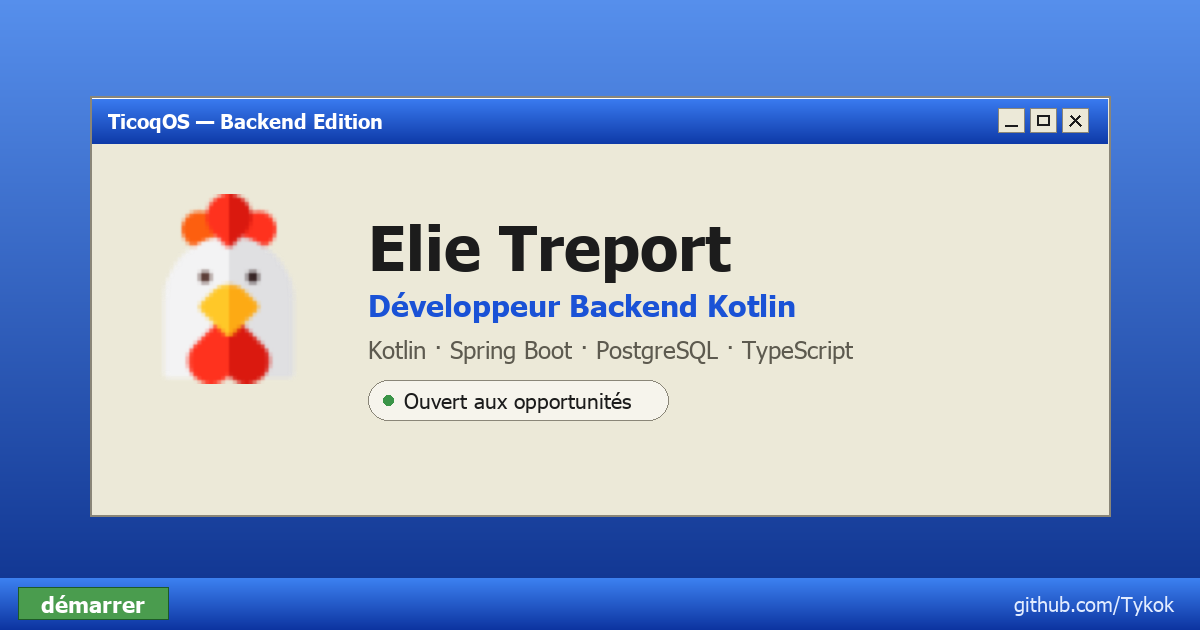
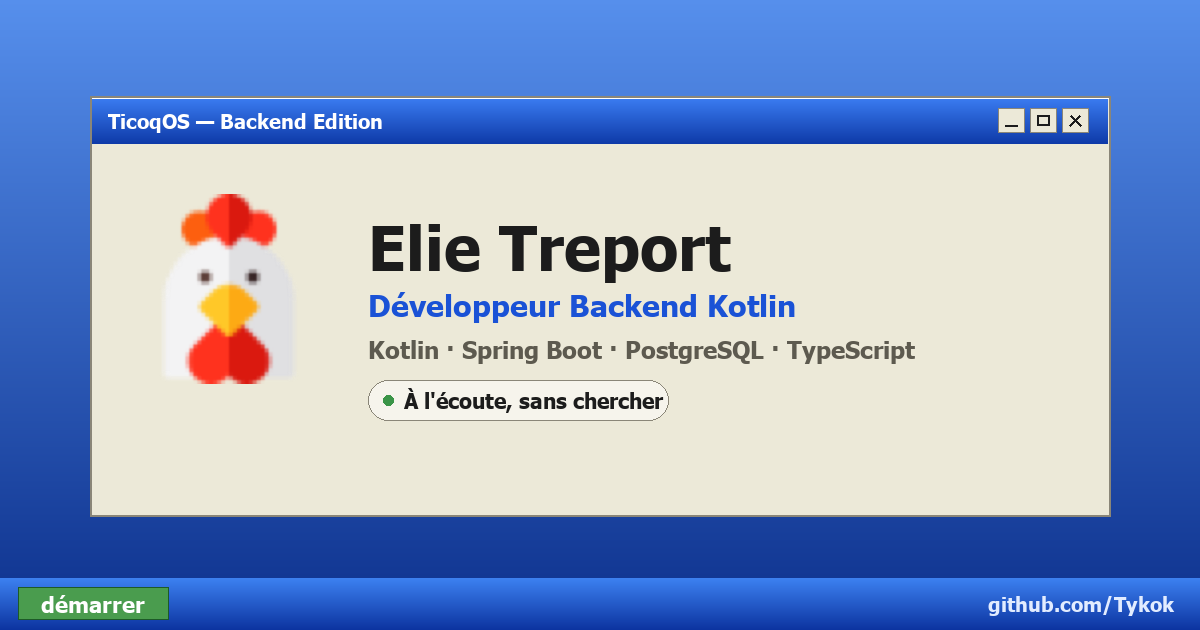
fix(identity): regenerate the sharing card, which still offered a job search
public/og-image.png read "Ouvert aux opportunités" long after identity.status
had become "À l'écoute, sans chercher". make_og.py already drew the right
words — only the committed PNG was stale, so this is the script's output, not
a change to it.

The card is what LinkedIn and Slack show before anyone reaches the site, and
being a binary, nothing in the app could catch it drifting. identity.test.ts
now reads the generator's source and fails if it stops matching the declared
status, or if it starts advertising a search again.

Changed region(s): [[0.3083, 0.5429, 0.7708, 0.573], [0.3392, 0.6032, 0.555, 0.6635], [0.8325, 0.9349, 0.9867, 0.9952]]

diff --git a/src/data/identity.test.ts b/src/data/identity.test.ts
@@ -1,3 +1,6 @@
+import { readFileSync } from 'node:fs';
+import { resolve } from 'node:path';
+
 import { identity } from './identity';
 import { socials } from './socials';
 
@@ -35,6 +38,26 @@ describe('identity', () => {
     });
     expect(identity.bio.fr).toMatch(/La Réunion/);
     expect(identity.bio.en).toMatch(/Réunion/);
+  });
+});
+
+/**
+ * The sharing card is a committed PNG, so nothing in the app can catch it
+ * drifting from the data — and it did: the card shipped reading "Ouvert aux
+ * opportunités" long after `status` had become "À l'écoute, sans chercher".
+ * The generator's source is the closest thing to the image that a test can
+ * read. It does not prove public/og-image.png was regenerated, only that the
+ * script it comes from still says the right thing.
+ */
+describe('the sharing card generator', () => {
+  const script = readFileSync(resolve(__dirname, '..', '..', 'scripts', 'images', 'make_og.py'), 'utf8');
+
+  it('draws the status that identity declares', () => {
+    expect(script).toContain(identity.status.fr);
+  });
+
+  it('advertises no job search', () => {
+    expect(script.toLowerCase()).not.toMatch(/opportunit/);
   });
 });
 
